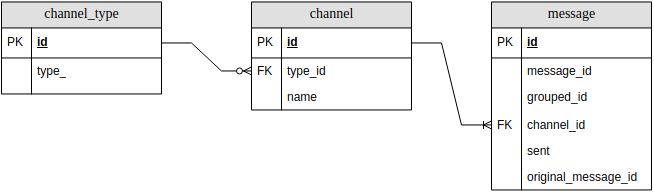
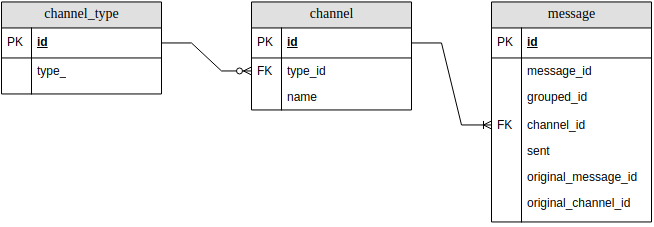
small improvements (#53)

diff --git a/src/aggregator/models.py b/src/aggregator/models.py
@@ -14,10 +14,10 @@ class MessageModel(Base):
     grouped_id = Column(BigInteger, nullable=True)  # grouped_id is a Telegram hack to group messages
     sent = Column(DateTime, nullable=True)  # have the message been sent to the user. NULL if it haven't been sent
 
-    # id of the channel where the message is forwarded from
+    # id of the channel, the message is forwarded from
     channel_id = Column(BigInteger, ForeignKey("channel.id"), nullable=False)
 
-    # Source channel and message id (in case the message was fwd into listening channel)
+    # Source channel and message id (in case the message was forwarded into the listening channel)
     original_channel_id = Column(BigInteger, nullable=False)
     original_message_id = Column(Integer, nullable=False)
 

diff --git a/README.md b/README.md
@@ -14,7 +14,7 @@ Aggregate posts from several channels and send it via bot according the rules.
 
 ### Install dependencies
 
-The project uses [Poetry](https://python-poetry.org/)  for dependency management. Please set up the project following the instructions in this [poetry guide](https://python-poetry.org/docs/basic-usage/#initialising-a-pre-existing-project).
+The project uses [Poetry](https://python-poetry.org/)  for dependency management. Please set up the project following the instructions [poetry guide](https://python-poetry.org/docs/basic-usage/#initialising-a-pre-existing-project).
 
 ### Set up Telegram entities
 
@@ -51,9 +51,9 @@ make up-all
 ```
 
 ## Run the application locally
-Note: db should be in a container
+Note: db should be run in a container
 
-poetry run
+make up-local
 
 ## DB migrations
 
